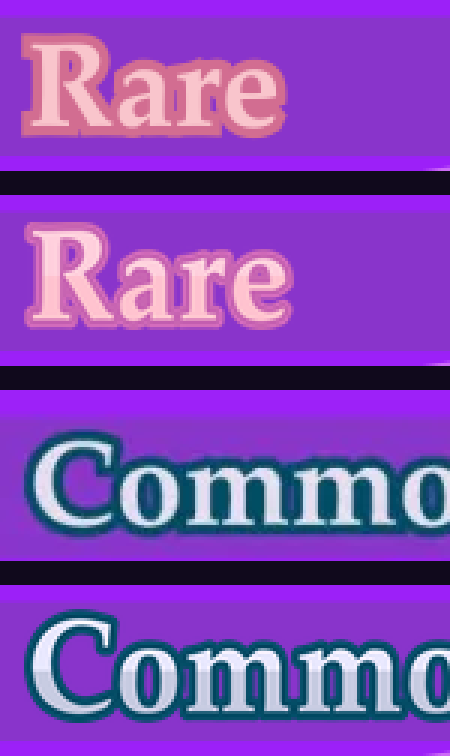
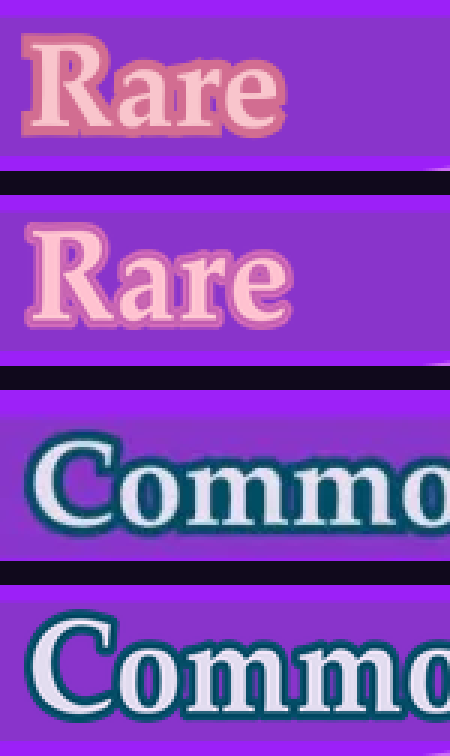
Rarity tiers are flat; size the use discs from the deck's own average
A RARITY TIER HAS NO HIGHLIGHT. It is one flat colour inside one outline, which
is what separates it from the two names above -- those really are cut in half,
this is not. Histogramming each tier's interior with the outline tone excluded
gives a tight single cluster rather than two populations: Common #e5def0 /
#e5deee / #e1dcf0, Rare #ffc1d0 / #ffc3d1 / #ffc0d1, Uncommon #f9f2ac / #fbf1b0,
Epic #0393d7. A spread that narrow is a flat fill plus resampling noise.

THE USE DISCS, AVERAGED OVER ALL 45 SHIPPED FRONTS rather than read off one
card. Diffing each front against the template inside a window that excludes the
gauge rail (x >= 735) and the Latin name's descenders resolves both discs on all
45, and they agree to within half a pixel: A at x 619, B at x 680, both y 699,
both 54 x 57, pitch 61. They were being drawn 53 x 56 at x 618 / 679.

(A first pass put disc B at 54 x 68 because its window caught a fixed template
element above it. A y standard deviation of EXACTLY 0.0 across 45 different
cards is the tell that a measurement has locked onto furniture, not content.)

Two bugs behind the icons being small, and the second only showed up once the
first was fixed:

* `Image.thumbnail` ONLY EVER SHRINKS -- it returns the image untouched when it
  already fits -- so a harvested 52x51 disc sat at 52x51 inside its slot and
  every generated card's icons came out slightly small and slightly high. place()
  now scales to the slot in both directions.
[…]

diff --git a/scripts/render_generated_card.py b/scripts/render_generated_card.py
@@ -117,18 +117,21 @@ SPLIT = {
 # tight text band on all 45 shipped fronts separates them: Common is a dark teal under a
 # pale blue highlight, Uncommon cream over mauve, Rare the familiar pink, Epic blue under
 # lavender. All four sit at x 428, which is the slot already measured.
-# (upper tone, lower tone, split, OUTLINE) -- the same cut as SPLIT above.
+# (body tone, OUTLINE) -- A RARITY TIER HAS NO HIGHLIGHT. It is one flat colour inside
+# one outline, which is what separates it from the two names above: those really are cut
+# in half, this is not. Histogramming the interior with the outline tone excluded gives a
+# tight single cluster per tier rather than two populations -- Common #e5def0/#e5deee/
+# #e1dcf0, Rare #ffc1d0/#ffc3d1/#ffc0d1, Uncommon #f9f2ac/#fbf1b0, Epic #0393d7 -- and a
+# spread that narrow is a flat fill plus resampling noise, not a split.
 #
-# THE TIER COLOUR IS THE OUTLINE, NOT THE BODY. Eroding the glyph separates them: a
-# genuine Rare is pale pink inside with only #c865b2 at its edge, Uncommon is cream in a
-# mauve edge, and Epic inverts the relation with a blue body in a LIGHT lavender outline.
-# Sampling a whole glyph blends the two and reports the darker, which is why a generated
-# "Common" came out solid teal beside a genuine one that reads pale.
+# THE TIER COLOUR IS THE OUTLINE, NOT THE BODY. Sampling a whole glyph blends the two and
+# reports the darker, which is why a generated "Common" first came out solid teal beside a
+# genuine one that reads pale.
 RARITY_TONES = {
-    "Common":   ("#eae9ff", "#c8cce2", 0.55, "#034c65"),
-    "Uncommon": ("#ffedc5", "#f9f2ae", 0.30, "#b770d1"),
-    "Rare":     ("#ffd0dd", "#ffc3cf", 0.50, "#c865b2"),
-    "Epic":     ("#b8e3ff", "#0393d7", 0.30, "#05506f"),
+    "Common":   ("#e3ddf0", "#034c65"),
+    "Uncommon": ("#f9f2ae", "#b770d1"),
+    "Rare":     ("#ffc2d0", "#c865b2"),
+    "Epic":     ("#0393d7", "#cbb6ff"),
 }
 
 # HORIZONTAL STRETCH, and this is the single correction behind four of the complaints.
@@ -192,8 +195,15 @@ SLOT_PHOTO = (105, 197, 698, 681)       # the art window's inner opening, 593x48
 # Measured off the genuine Pine render: the pair spans x 618-756, each disc ~62px.
 # Measured on the genuine front: the left disc is 53x56 at (618, 699); the pair's pitch
 # is 61, which the shipped webp agrees with.
-SLOT_USE_A = (618, 699, 671, 755)
-SLOT_USE_B = (679, 699, 732, 755)
+# THE TWO USE DISCS, AVERAGED OVER ALL 45 SHIPPED FRONTS rather than read off one card.
+# Diffing each front against the template inside a window that EXCLUDES the gauge rail
+# (x >= 735) and the Latin name's descenders resolves both discs on all 45, and they agree
+# to within half a pixel: A at x 619, B at x 680, both y 699 and both 54 x 57, pitch 61.
+# (A first pass put B at 54 x 68 because its window caught a fixed template element above
+# it -- a y standard deviation of EXACTLY 0.0 is the tell that a measurement has locked
+# onto furniture rather than content.)
+SLOT_USE_A = (619, 699, 673, 756)
+SLOT_USE_B = (680, 699, 734, 756)
 SLOT_PIXEL = (553, 814, 710, 958)       # the supporting pixel-icon panel
 SLOT_SEASON = (688, 1016, 736, 1064)  # genuine gold tile: 48x48
 
@@ -435,8 +445,8 @@ def draw_slot(img: Image.Image, slot: str, text: str, blocked: list | None = Non
     if slot == "encounter":
         tier = RARITY_TONES.get(text.strip().title())
         if tier:
-            stops = tier[:3]
-            fill, shadow = tier[1], tier[3]
+            stops = None                 # flat: no split, no highlight
+            fill, shadow = tier[0], tier[1]
     layer, bx, by = text_layer(font, text, fill, shadow, STROKE.get(slot, 0),
                                stops, STRETCH.get(slot, 1.0), WEIGHT.get(slot, 0))
 
@@ -455,14 +465,33 @@ def draw_slot(img: Image.Image, slot: str, text: str, blocked: list | None = Non
 
 
 def place(img: Image.Image, art: Image.Image, slot: tuple[int, int, int, int],
-          *, margin: int = 0, pixelated: bool = False) -> None:
-    """Fit `art` inside `slot`, preserving its proportions and cutting nothing off."""
+          *, margin: int = 0, pixelated: bool = False, fill: bool = False) -> None:
+    """Fit `art` inside `slot`, preserving its proportions and cutting nothing off.
+
+    `fill` scales to the slot in BOTH axes instead, which is only correct where the slot
+    is itself a measurement of the thing being drawn. The use discs are that case: the
+    genuine disc is an ELLIPSE, 54 wide and 57 tall, which a row-by-row profile shows
+    directly -- the width rises symmetrically to 54 at mid-height and falls away again
+    over rows 699-755, on every card checked. The harvested icons are square 200x200, so
+    fitting them by proportion draws a 54x54 circle and loses the deck's own 5% oval.
+    """
     x0, y0, x1, y1 = slot
     w, h = (x1 - x0) - margin * 2, (y1 - y0) - margin * 2
     art = art.copy()
     if art.mode == "RGBA" and art.getbbox():
         art = art.crop(art.getbbox())     # ink, not canvas -- see draw_units
-    art.thumbnail((w, h), Image.NEAREST if pixelated else Image.LANCZOS)
+    # SCALE TO FIT, NOT `thumbnail`. `Image.thumbnail` only ever SHRINKS -- it returns the
+    # image untouched when it already fits -- so a harvested 52x51 use disc sat at 52x51
+    # inside a 54x57 slot and every generated card's icons came out a little small and a
+    # little high. Scaling to the slot in both directions is what makes the measured deck
+    # average (54 x 57) the size that actually gets drawn.
+    if fill:
+        art = art.resize((max(1, w), max(1, h)),
+                         Image.NEAREST if pixelated else Image.LANCZOS)
+    else:
+        k = min(w / art.width, h / art.height)
+        art = art.resize((max(1, round(art.width * k)), max(1, round(art.height * k))),
+                         Image.NEAREST if pixelated else Image.LANCZOS)
     img.alpha_composite(art.convert("RGBA"),
                         (x0 + margin + (w - art.width) // 2,
                          y0 + margin + (h - art.height) // 2))
@@ -509,7 +538,7 @@ def render_front(card: dict, assets: pathlib.Path,
     draw_slot(front, "scientific", deck_binomial(f["scientific_name"]), blocked)
 
     for slot, use in zip((SLOT_USE_A, SLOT_USE_B), f.get("use_icons", [])):
-        place(front, Image.open(KIT / "icons" / f"use-{use}.png"), slot)
+        place(front, Image.open(KIT / "icons" / f"use-{use}.png"), slot, fill=True)
 
     for kind in ("water", "sun", "temperature"):
         draw_units(front, kind, (f.get("environmental_indicators") or {}).get(kind))
